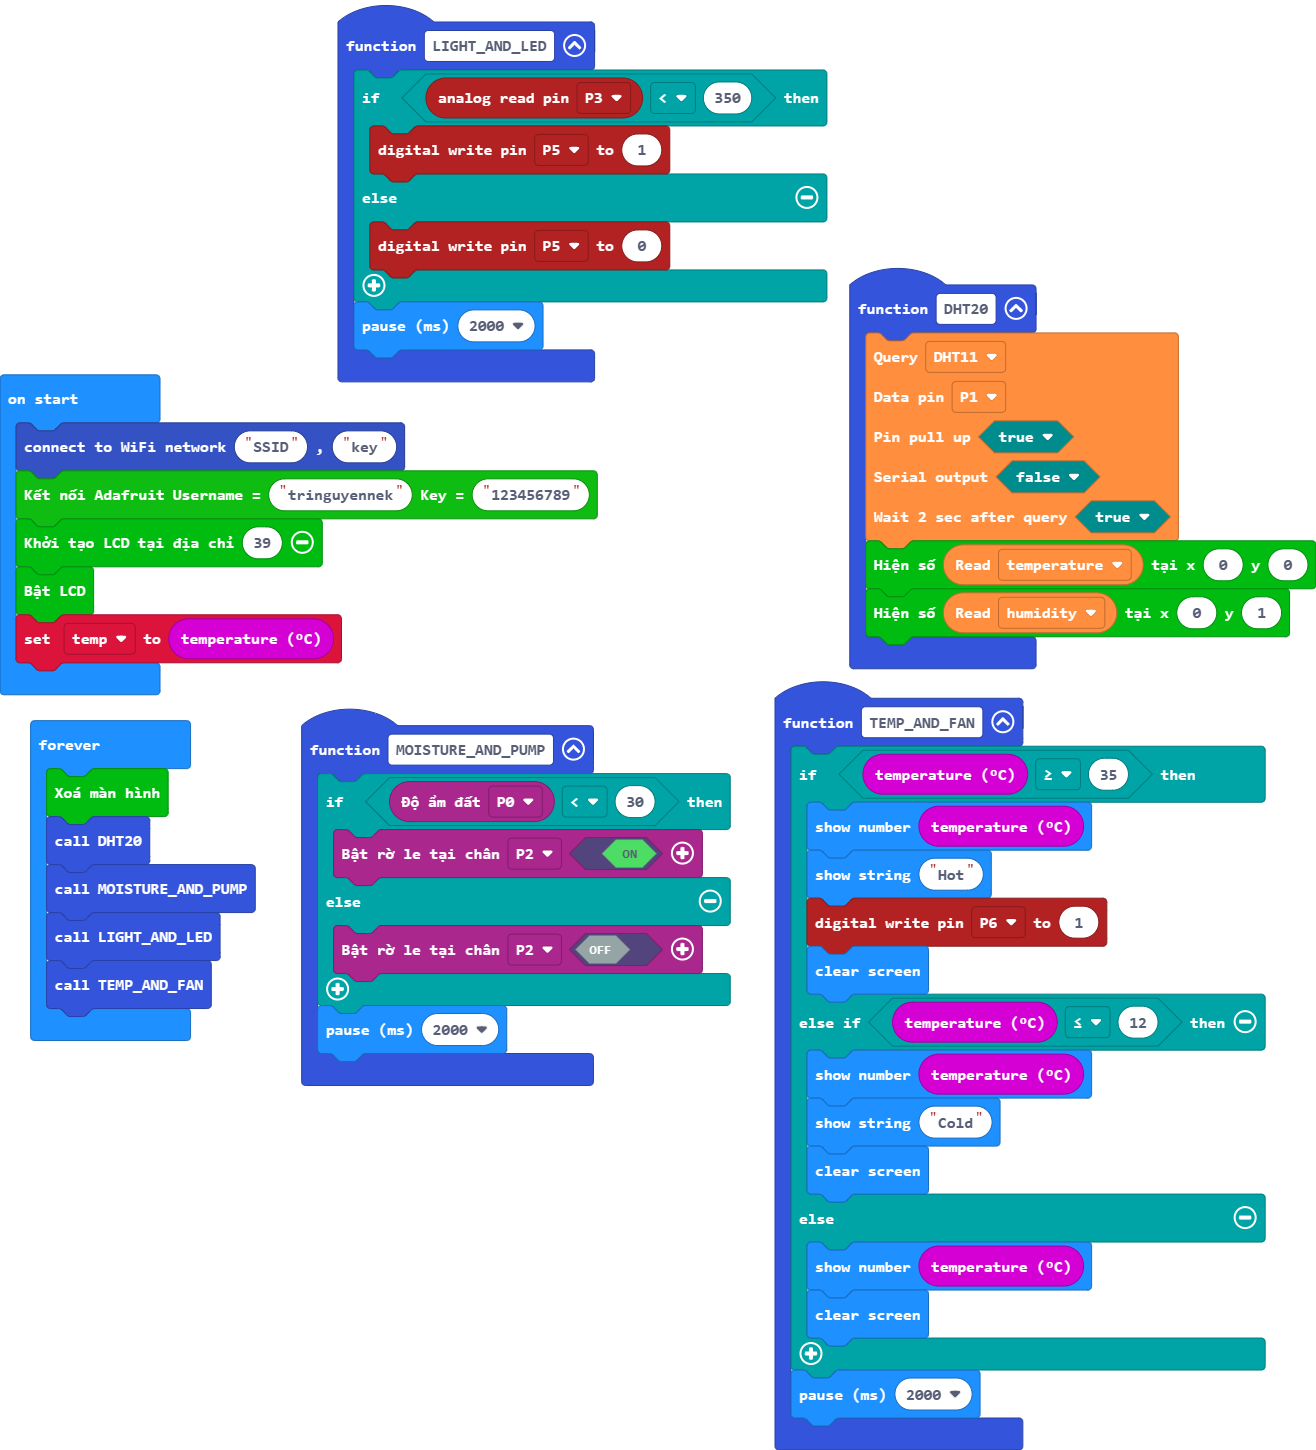
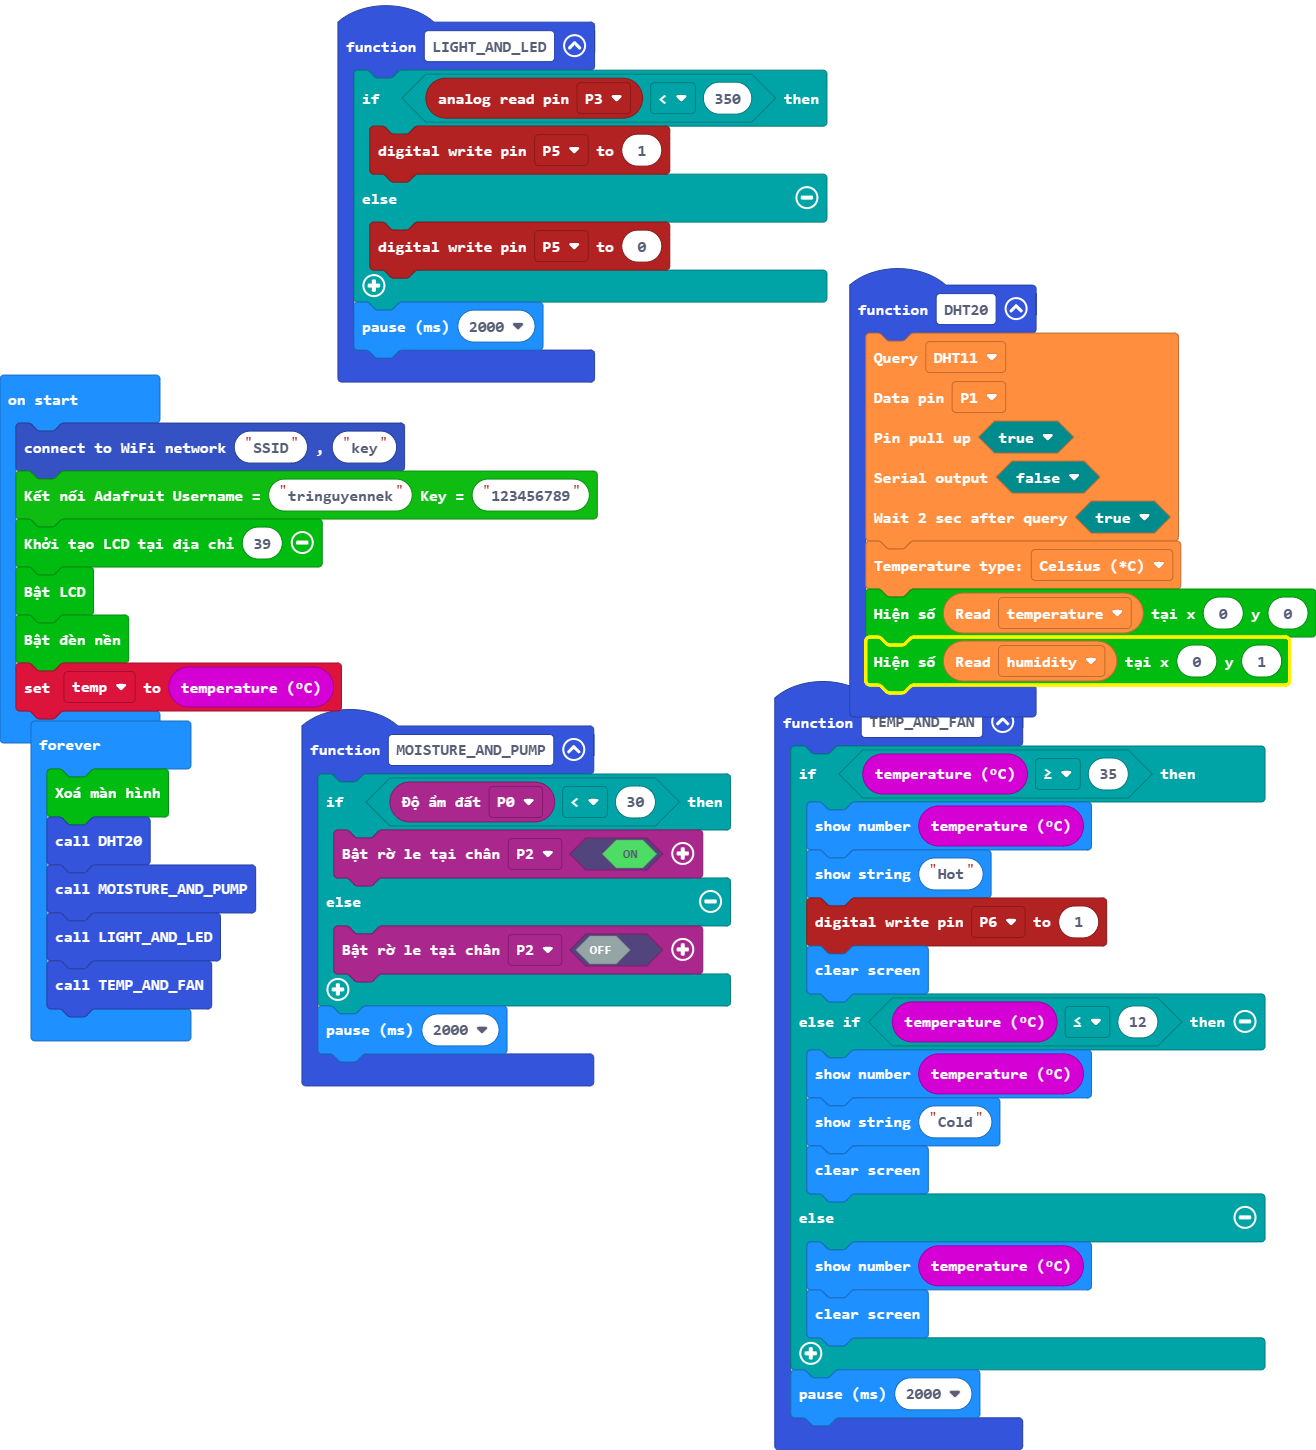
Update pxt.json, main.blocks, main.ts

diff --git a/main.ts b/main.ts
@@ -6,6 +6,7 @@ function DHT20 () {
     false,
     true
     )
+    dht11_dht22.selectTempType(tempType.celsius)
     NPNLCD.ShowNumber(dht11_dht22.readData(dataType.temperature), 0, 0)
     NPNLCD.ShowNumber(dht11_dht22.readData(dataType.humidity), 0, 1)
 }
@@ -45,6 +46,7 @@ WiFiBit.connectToWiFiNetwork("SSID", "key")
 ESP8266_IoT.adafruit_setting("tringuyennek", "123456789")
 NPNLCD.LcdInit(39)
 NPNLCD.on()
+NPNLCD.BacklightOn()
 let temp = input.temperature()
 basic.forever(function () {
     NPNLCD.clear()
